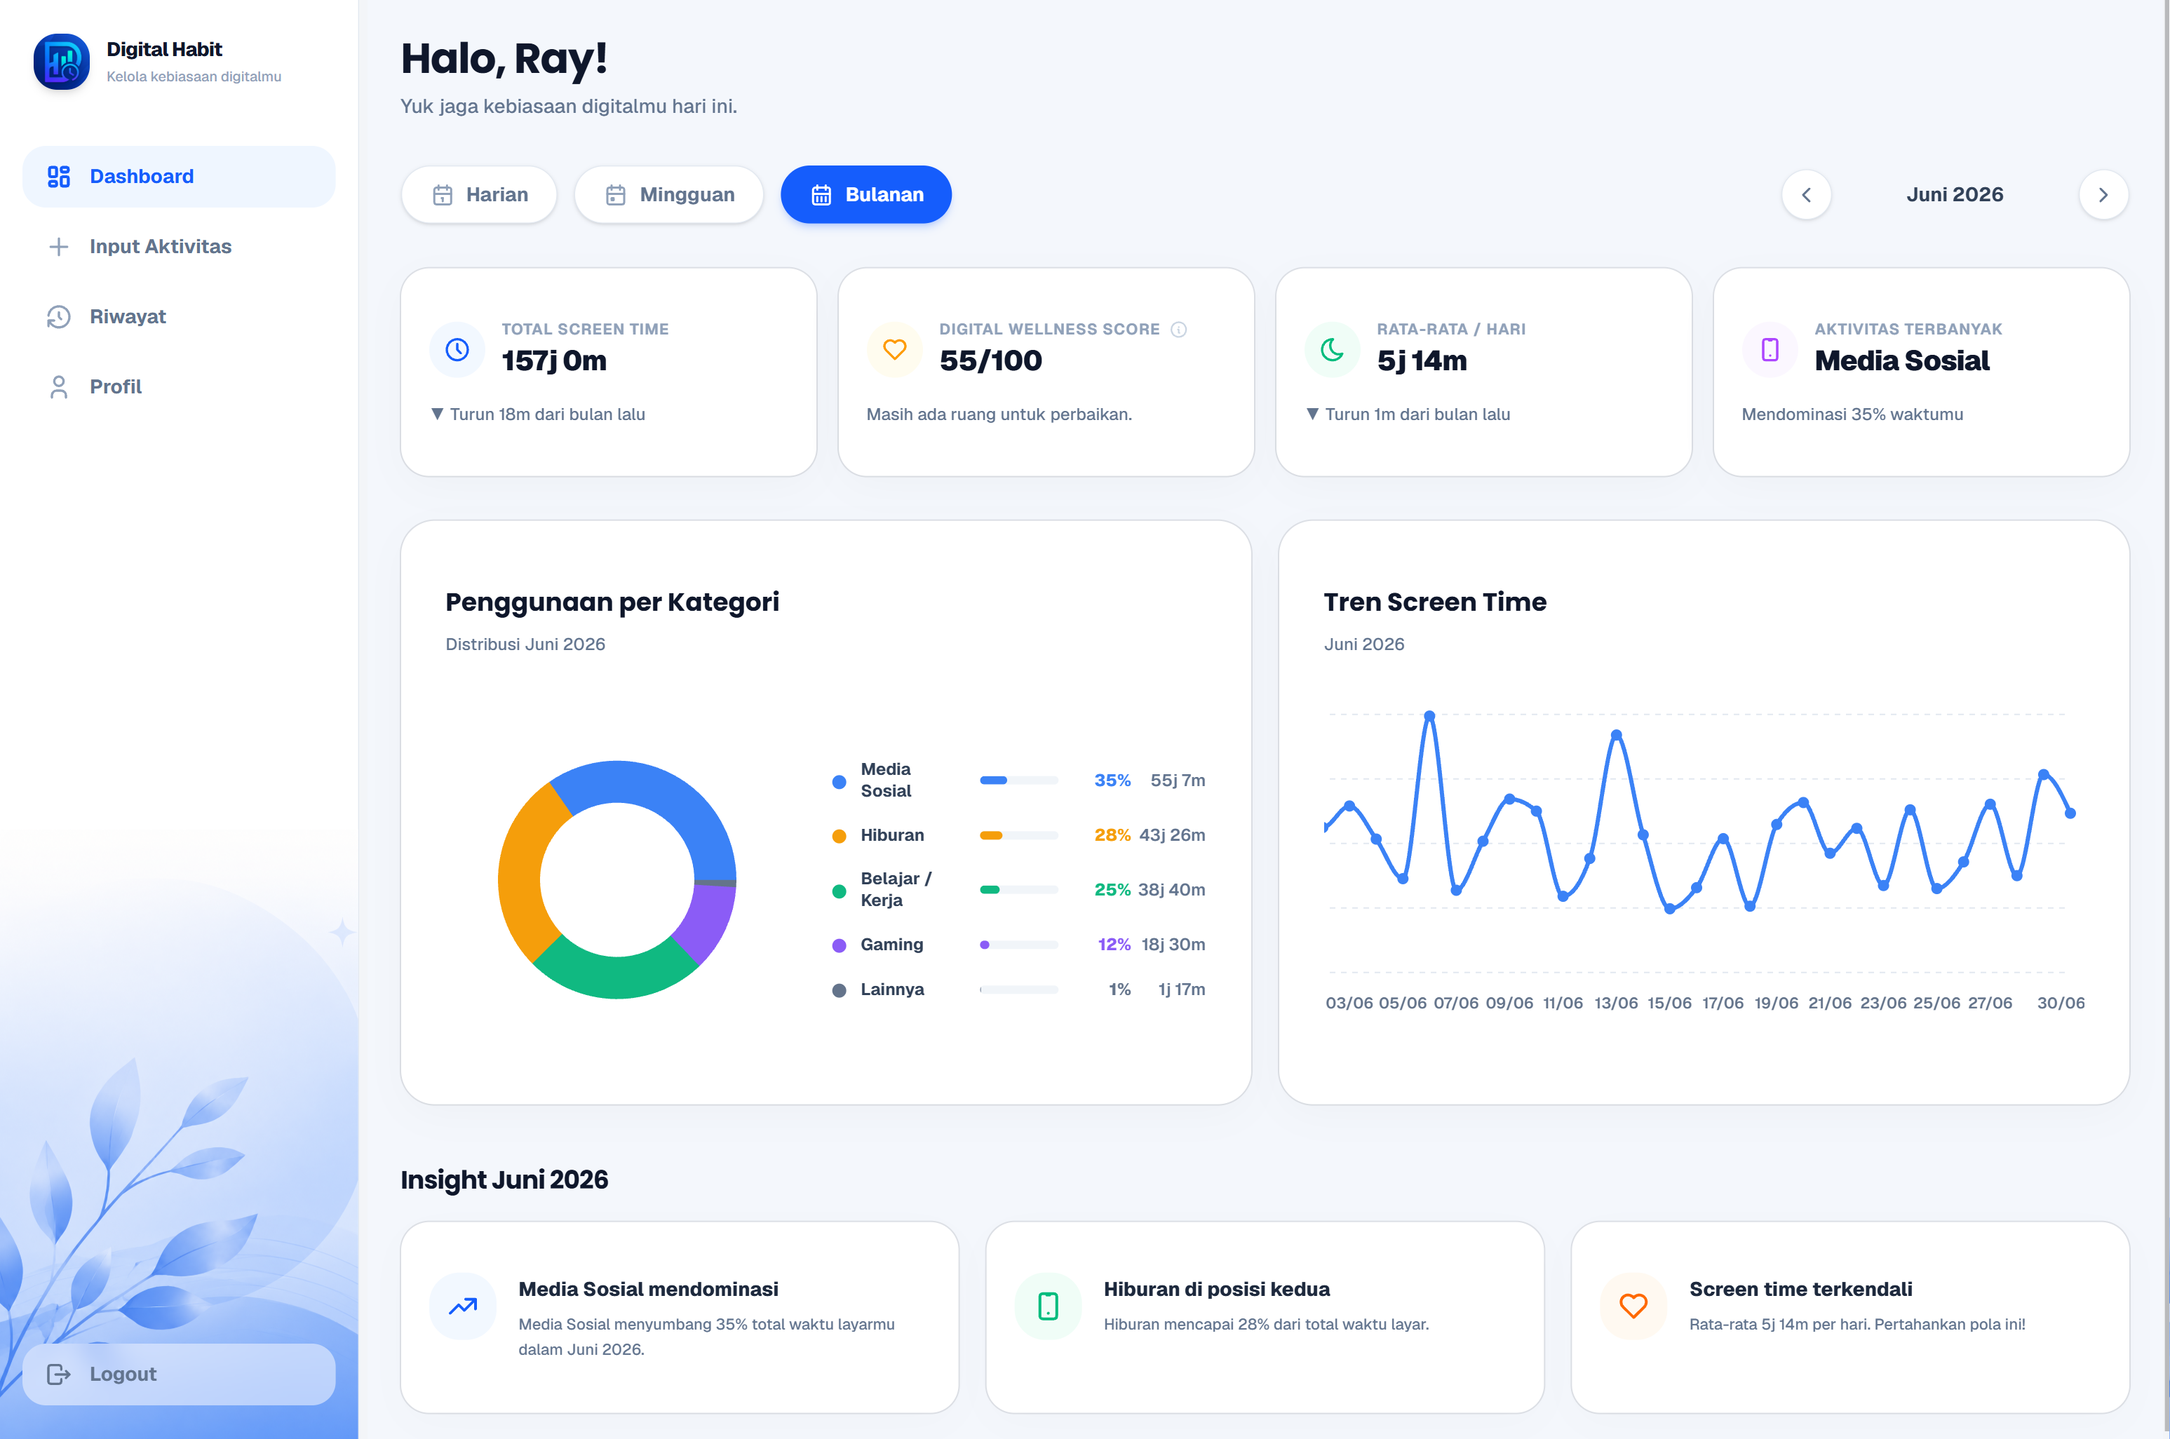
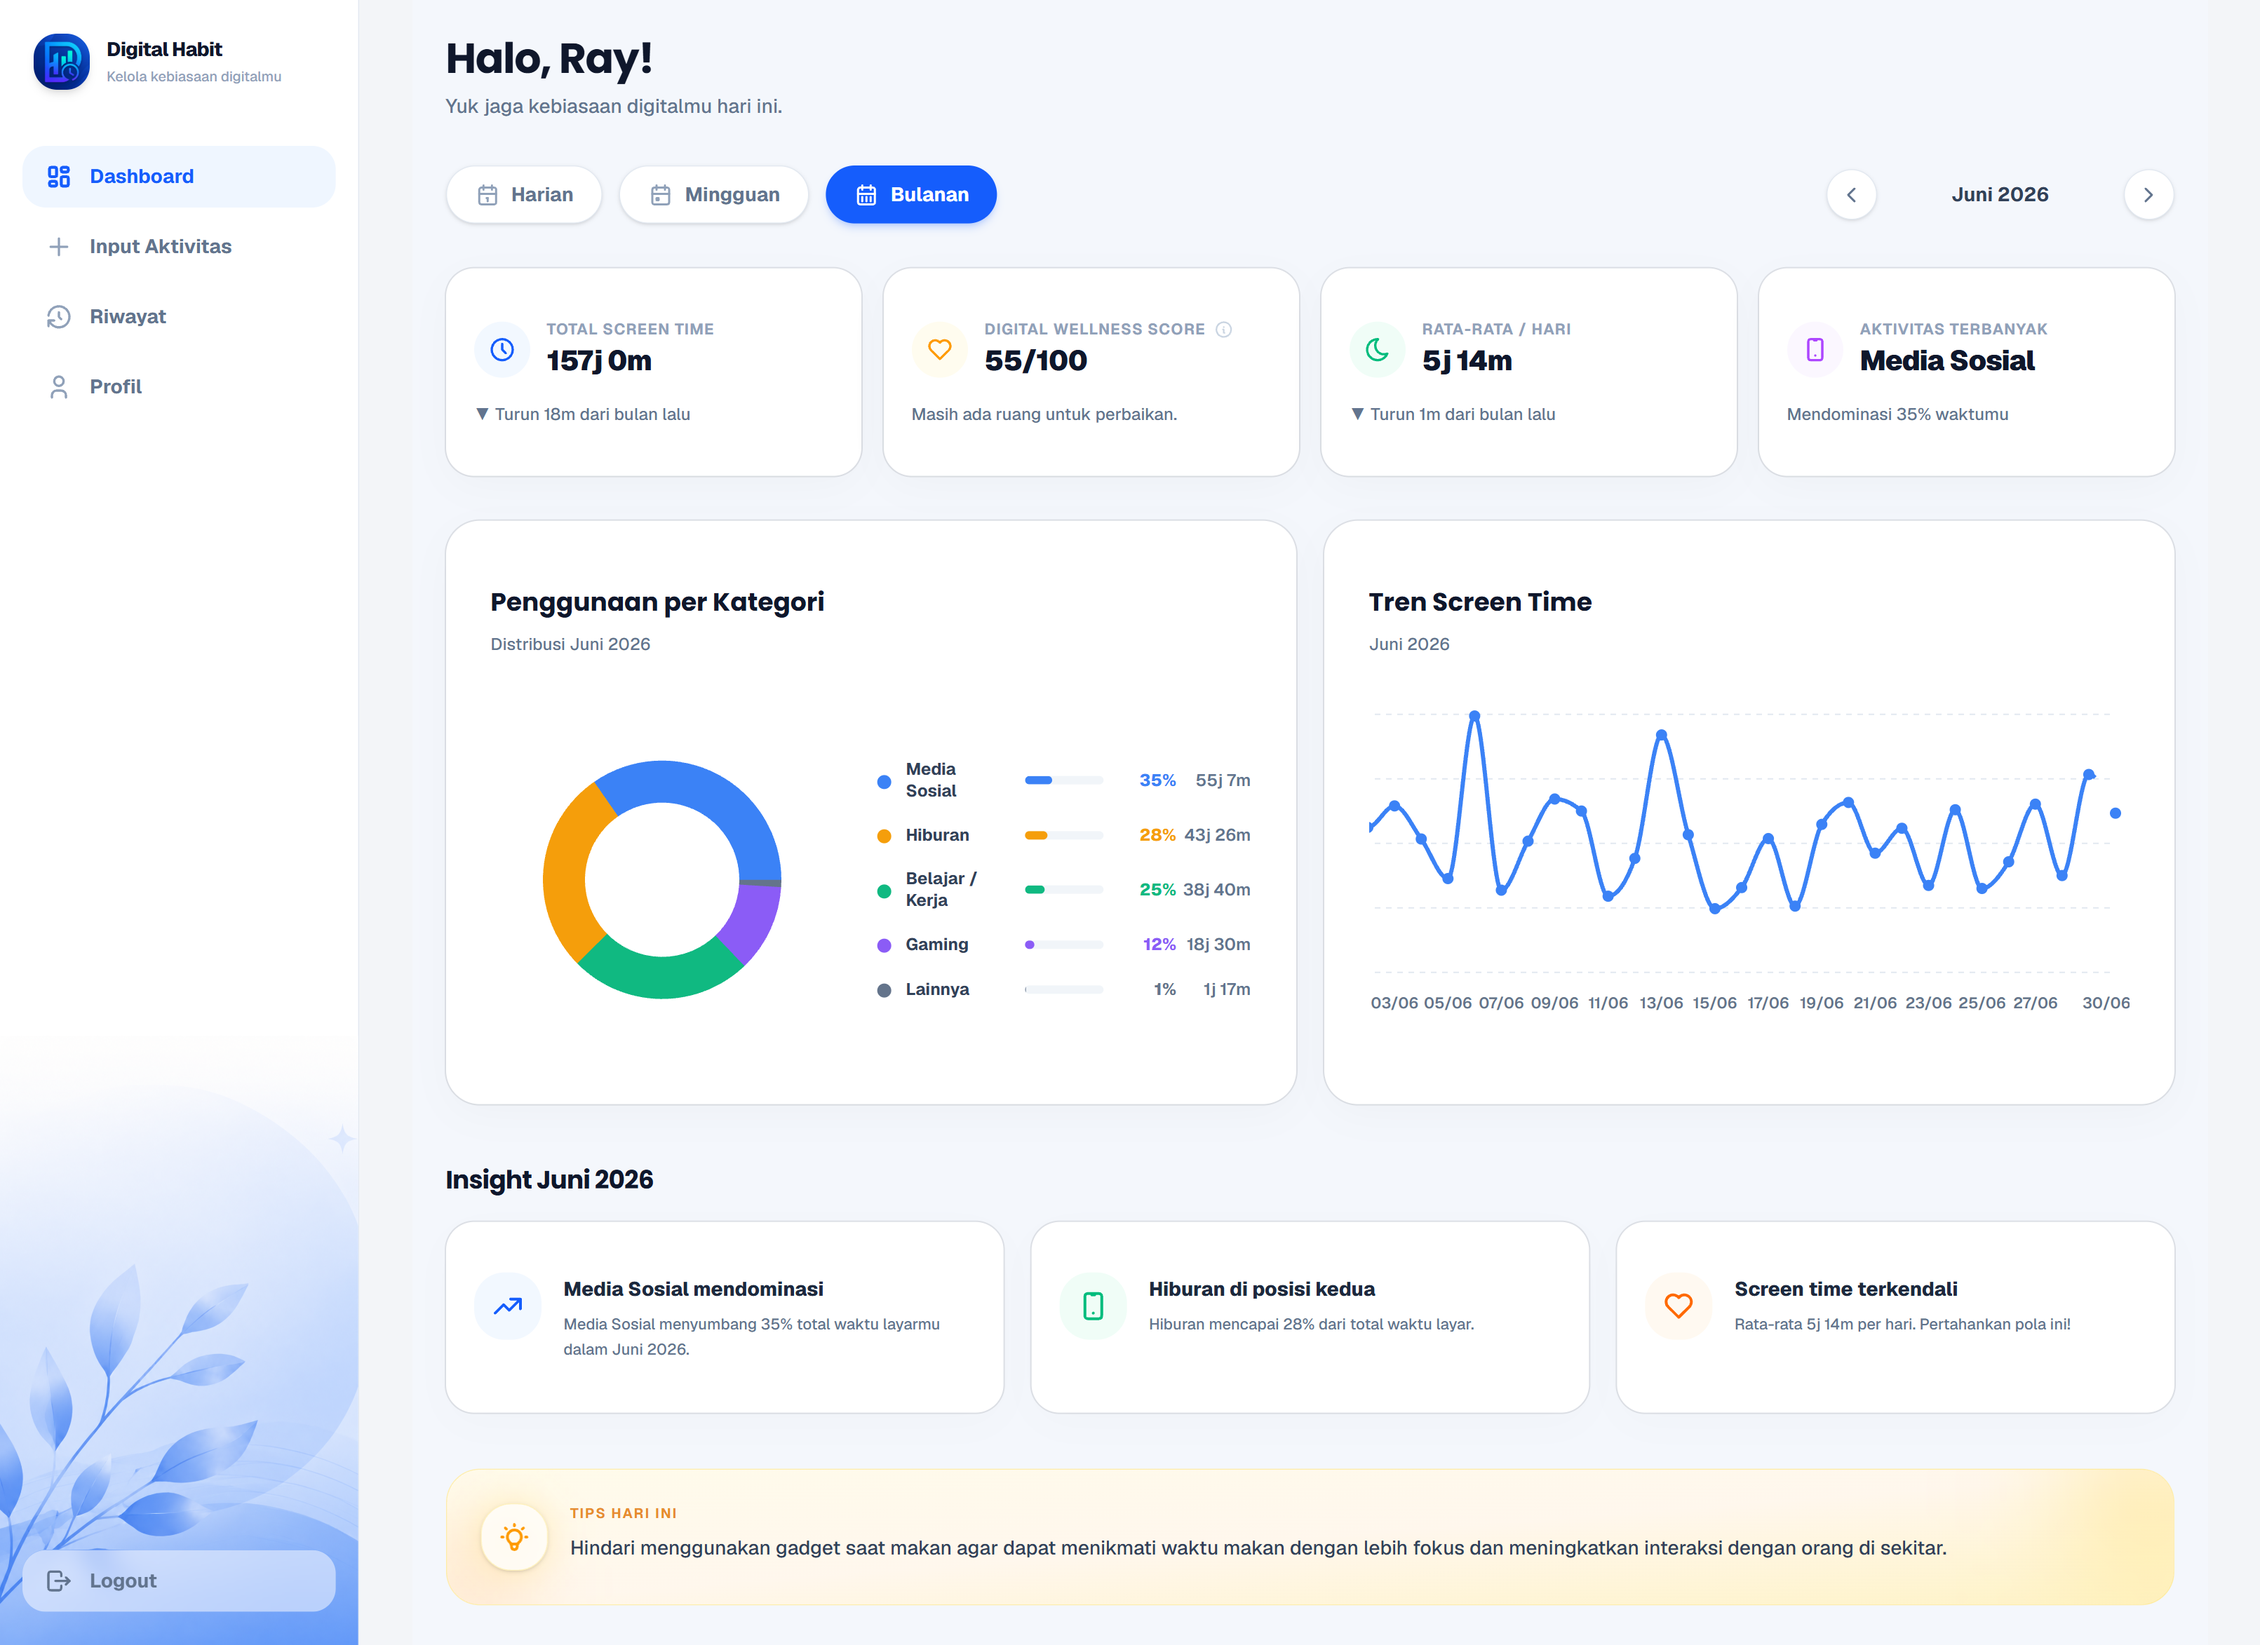
feat: mobile responsive, logout confirmation, landing page improvement
- Tambah bottom navigation bar untuk mobile (mobile-nav.tsx)
- Sembunyikan sidebar di mobile, tampilkan di desktop
- Tambah konfirmasi logout dengan AlertDialog
- Limit date picker di input-aktivitas (max hari ini)
- Tambah tagline 'Aplikasi pelacak screen time' di landing page
- Update dashboard screenshots
- Minor UI fixes (profil pot size, riwayat dialog, lupa-password cleanup)

diff --git a/components/mobile-nav.tsx b/components/mobile-nav.tsx
@@ -1,0 +1,109 @@
+"use client"
+
+import Link from "next/link"
+import { useRouter, usePathname } from "next/navigation"
+import {
+  IconLayoutDashboard,
+  IconPlus,
+  IconHistory,
+  IconUser,
+  IconLogout
+} from "@tabler/icons-react"
+import { cn } from "@/lib/utils"
+import {
+  AlertDialog,
+  AlertDialogAction,
+  AlertDialogCancel,
+  AlertDialogContent,
+  AlertDialogDescription,
+  AlertDialogFooter,
+  AlertDialogHeader,
+  AlertDialogTitle,
+  AlertDialogTrigger,
+} from "@/components/ui/alert-dialog"
+
+const menuItems = [
+  {
+    label: "Dashboard",
+    href: "/dashboard",
+    icon: IconLayoutDashboard,
+  },
+  {
+    label: "Input",
+    href: "/input-aktivitas",
+    icon: IconPlus,
+  },
+  {
+    label: "Riwayat",
+    href: "/riwayat",
+    icon: IconHistory,
+  },
+  {
+    label: "Profil",
+    href: "/profil",
+    icon: IconUser,
+  },
+]
+
+export function MobileNav() {
+  const router = useRouter()
+  const pathname = usePathname()
+
+  function handleLogout() {
+    localStorage.removeItem("digital-habit-user")
+    router.push("/")
+  }
+
+  return (
+    <nav className="fixed bottom-0 left-0 right-0 z-50 flex items-center justify-around border-t border-slate-200 bg-white px-2 py-2 md:hidden">
+      {menuItems.map((item) => {
+        const isActive = pathname === item.href
+        return (
+          <Link
+            key={item.href}
+            href={item.href}
+            className={cn(
+              "flex flex-col items-center gap-1 rounded-xl px-3 py-2 text-[10px] font-bold transition-all",
+              isActive
+                ? "text-blue-600"
+                : "text-slate-400 active:text-slate-600"
+            )}
+          >
+            <item.icon
+              className={cn("size-5", isActive ? "text-blue-600" : "text-slate-400")}
+              stroke={isActive ? 2.5 : 2}
+            />
+            {item.label}
+          </Link>
+        )
+      })}
+      <AlertDialog>
+        <AlertDialogTrigger asChild>
+          <button
+            className="flex flex-col items-center gap-1 rounded-xl px-3 py-2 text-[10px] font-bold text-slate-400 transition-all active:text-red-500"
+          >
+            <IconLogout className="size-5" stroke={2} />
+            Keluar
+          </button>
+        </AlertDialogTrigger>
+        <AlertDialogContent className="rounded-[20px]">
+          <AlertDialogHeader>
+            <AlertDialogTitle className="font-bold">Yakin ingin logout?</AlertDialogTitle>
+            <AlertDialogDescription className="font-medium text-slate-500">
+              Anda akan keluar dari akun ini.
+            </AlertDialogDescription>
+          </AlertDialogHeader>
+          <AlertDialogFooter>
+            <AlertDialogCancel className="rounded-xl border-slate-200">Batal</AlertDialogCancel>
+            <AlertDialogAction
+              onClick={handleLogout}
+              className="rounded-xl bg-red-500 text-white hover:bg-red-600"
+            >
+              Logout
+            </AlertDialogAction>
+          </AlertDialogFooter>
+        </AlertDialogContent>
+      </AlertDialog>
+    </nav>
+  )
+}

diff --git a/components/app-sidebar.tsx b/components/app-sidebar.tsx
@@ -10,6 +10,17 @@ import {
   IconLogout
 } from "@tabler/icons-react"
 import { cn } from "@/lib/utils"
+import {
+  AlertDialog,
+  AlertDialogAction,
+  AlertDialogCancel,
+  AlertDialogContent,
+  AlertDialogDescription,
+  AlertDialogFooter,
+  AlertDialogHeader,
+  AlertDialogTitle,
+  AlertDialogTrigger,
+} from "@/components/ui/alert-dialog"
 
 const menuItems = [
   {
@@ -45,7 +56,7 @@ export function AppSidebar() {
 
   return (
     // Tambahkan relative dan overflow-hidden di sini
-    <aside className="relative flex h-full w-64 flex-col border-r border-slate-200 bg-white overflow-hidden">
+    <aside className="relative hidden md:flex h-full w-64 flex-col border-r border-slate-200 bg-white overflow-hidden">
       
       {/* ================= GAMBAR DAUN SIDEBAR ================= */}
       {/* Letakkan absolute di bawah, z-0 agar jadi background */}
@@ -99,15 +110,33 @@ export function AppSidebar() {
       {/* LOGOUT BUTTON */}
       {/* Tambahkan relative z-10 di sini agar tetap bisa diklik */}
       <div className="relative z-10 px-4 pb-6 mt-auto">
-        <button 
-          onClick={handleLogout} 
-          // Ubah background hover jadi putih semi transparan/krem agar tidak bentrok dengan warna daun jika perlu,
-          // tapi memakai red-50 seperti kodemu juga sudah oke selama teksnya terbaca.
-          className="flex w-full items-center gap-3 rounded-xl px-4 py-3 text-sm font-bold text-slate-500 transition-colors hover:bg-red-50 hover:text-red-600 bg-white/50 backdrop-blur-sm"
-        >
-          <IconLogout className="size-5" stroke={2} />
-          Logout
-        </button>
+        <AlertDialog>
+          <AlertDialogTrigger asChild>
+            <button 
+              className="flex w-full items-center gap-3 rounded-xl px-4 py-3 text-sm font-bold text-slate-500 transition-colors hover:bg-red-50 hover:text-red-600 bg-white/50 backdrop-blur-sm"
+            >
+              <IconLogout className="size-5" stroke={2} />
+              Logout
+            </button>
+          </AlertDialogTrigger>
+          <AlertDialogContent className="rounded-[20px]">
+            <AlertDialogHeader>
+              <AlertDialogTitle className="font-bold">Yakin ingin logout?</AlertDialogTitle>
+              <AlertDialogDescription className="font-medium text-slate-500">
+                Anda akan keluar dari akun ini.
+              </AlertDialogDescription>
+            </AlertDialogHeader>
+            <AlertDialogFooter>
+              <AlertDialogCancel className="rounded-xl border-slate-200">Batal</AlertDialogCancel>
+              <AlertDialogAction
+                onClick={handleLogout}
+                className="rounded-xl bg-red-500 text-white hover:bg-red-600"
+              >
+                Logout
+              </AlertDialogAction>
+            </AlertDialogFooter>
+          </AlertDialogContent>
+        </AlertDialog>
       </div>
     </aside>
   )

diff --git a/app/page.tsx b/app/page.tsx
@@ -1,4 +1,4 @@
-"use client"
+"use client"
 
 import { useState, useEffect } from "react"
 import Link from "next/link"
@@ -132,6 +132,10 @@ export default function Home() {
               </span>
             </motion.h1>
 
+            <motion.p variants={fadeUp} className="text-sm font-semibold text-blue-600 mb-4">
+              Aplikasi pelacak screen time untuk kebiasaan digital yang lebih sehat.
+            </motion.p>
+
             <motion.p variants={fadeUp} className="text-base sm:text-lg text-slate-600 leading-relaxed mb-10 max-w-xl">
               Pantau, kelola, dan pahami waktu layarmu dengan <span className="text-blue-600 font-semibold">insight</span> yang bermakna untuk membentuk kebiasaan digital yang lebih <span className="text-[#0F172A] font-bold">sehat, fokus, dan produktif.</span>
             </motion.p>
@@ -166,8 +170,8 @@ export default function Home() {
                   <Target className="h-5 w-5" />
                 </div>
                 <div className="flex flex-col">
-                  <span className="text-sm font-bold text-slate-800">Capai Tujuan</span>
-                  <span className="text-[11px] font-medium text-slate-500 mt-0.5">Target yang realistis</span>
+                  <span className="text-sm font-bold text-slate-800">Kelola Waktu</span>
+                  <span className="text-[11px] font-medium text-slate-500 mt-0.5">Gunakan screen time dengan bijak</span>
                 </div>
               </div>
               <div className="flex items-center gap-3 group">
@@ -222,7 +226,7 @@ export default function Home() {
               Cara Kerja Digital Habit
             </h2>
             <p className="text-slate-500 text-sm md:text-base max-w-xl mx-auto">
-              Fitur komprehensif untuk mengambil alih kembali kendali atas waktu digitalmu.
+              Berbagai fitur untuk membantumu mengelola waktu digital dengan lebih baik.
             </p>
           </motion.div>
 

diff --git a/app/(authenticated)/riwayat/page.tsx b/app/(authenticated)/riwayat/page.tsx
@@ -911,9 +911,10 @@ export default function RiwayatPage() {
                           </AlertDialogTrigger>
                           <AlertDialogContent className="rounded-[20px]">
                             <AlertDialogHeader>
+                              <IconAlertTriangle className="inline size-4 mr-1" />
                               <AlertDialogTitle className="font-bold">Hapus Seluruh Aktivitas Hari Ini?</AlertDialogTitle>
                               <AlertDialogDescription className="font-medium text-slate-500">
-                                Menghapus aktivitas pada hari ini akan <b>menghapus data aktivitas hari ini</b>. Tindakan ini tidak dapat dibatalkan.
+                                Semua aktivitas yang tercatat pada hari <b> akan dihapus secara permanen </b>. Tindakan ini tidak dapat dibatalkan.
                               </AlertDialogDescription>
                             </AlertDialogHeader>
                             <AlertDialogFooter>
@@ -1288,7 +1289,6 @@ export default function RiwayatPage() {
                                 {isOnlyActivityOnDay ? "Hapus aktivitas terakhir hari ini?" : "Yakin ingin menghapus?"}
                               </AlertDialogTitle>
                               <AlertDialogDescription className="font-medium text-slate-500">
-                                <IconAlertTriangle className="inline size-4 mr-1" />
                                 Aktivitas ini akan dihapus permanen.
                               </AlertDialogDescription>
                             </AlertDialogHeader>

diff --git a/app/(authenticated)/dashboard/page.tsx b/app/(authenticated)/dashboard/page.tsx
@@ -789,7 +789,7 @@ export default function DashboardPage() {
       </div>
 
       {/* TIPS SECTION */}
-      <div className="relative overflow-hidden rounded-[24px] bg-gradient-to-br from-amber-50 via-orange-50 to-amber-100 border border-amber-200/60 p-6 animate-fade-in-up mt-2">
+      <div className="relative overflow-hidden rounded-[24px] bg-linear-to-br from-amber-50 via-orange-50 to-amber-100 border border-amber-200/60 p-6 animate-fade-in-up mt-2">
         {/* Decorative glow */}
         <div className="absolute -top-12 -right-12 size-32 bg-amber-300/30 rounded-full blur-2xl pointer-events-none" />
         <div className="absolute -bottom-8 -left-8 size-24 bg-orange-300/20 rounded-full blur-xl pointer-events-none" />

diff --git a/app/lupa-password/page.tsx b/app/lupa-password/page.tsx
@@ -16,7 +16,6 @@ import {
   Eye, 
   EyeOff, 
   ArrowRight,
-  Sparkles,
   CheckCircle2
 } from "lucide-react"
 
@@ -112,7 +111,6 @@ export default function LupaPasswordPage() {
           <div className="flex flex-col items-center justify-center mb-6">
             <div className="relative mb-2">
               <img src="/digital-habit/logo.png" alt="Digital Habit Logo" className="h-9 w-9 rounded-lg shadow-md shadow-blue-500/25 object-cover" />
-              <Sparkles className="absolute -top-1 -right-1 h-2.5 w-2.5 text-blue-200 animate-pulse" />
             </div>
             <h1 className="text-lg font-bold tracking-tight text-[#0F172A]">
               Digital Habit

diff --git a/app/(authenticated)/layout.tsx b/app/(authenticated)/layout.tsx
@@ -1,4 +1,5 @@
 import { AppSidebar } from "@/components/app-sidebar"
+import { MobileNav } from "@/components/mobile-nav"
 import { AuthCheck } from "@/components/auth-check"
 
 export default function AuthenticatedLayout({
@@ -10,9 +11,10 @@ export default function AuthenticatedLayout({
     <AuthCheck>
       <div className="flex h-screen">
         <AppSidebar />
-        <main className="flex-1 overflow-y-auto">
+        <main className="flex-1 overflow-y-auto pb-20 md:pb-0">
           {children}
         </main>
+        <MobileNav />
       </div>
     </AuthCheck>
   )

diff --git a/app/(authenticated)/profil/page.tsx b/app/(authenticated)/profil/page.tsx
@@ -394,7 +394,7 @@ export default function ProfilPage() {
           </CardContent>
 
           {/* Gambar Pot diletakkan absolute di pojok kanan bawah */}
-          <div className="absolute bottom-0 right-0 w-64 h-64 pointer-events-none z-0">
+          <div className="absolute bottom-0 right-0 w-40 h-40 pointer-events-none z-0">
             {/* Gunakan object-contain agar gambar 3D tidak terpotong, dan hapus mix-blend-multiply */}
             <img
               src="pot.png"

diff --git a/app/(authenticated)/input-aktivitas/page.tsx b/app/(authenticated)/input-aktivitas/page.tsx
@@ -250,6 +250,7 @@ export default function InputAktivitasPage() {
               <IconCalendarEvent className="absolute left-4 top-1/2 -translate-y-1/2 size-5 text-slate-400 pointer-events-none" />
               <Input
                 type="date"
+                max={date}
                 className="pl-11 rounded-xl border-slate-200 h-11 font-medium text-slate-700"
                 value={date}
                 onChange={(e) => setDate(e.target.value)}
